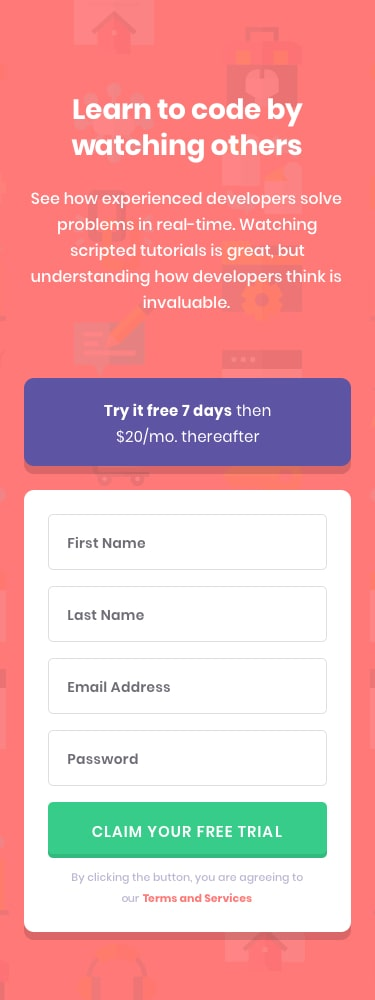
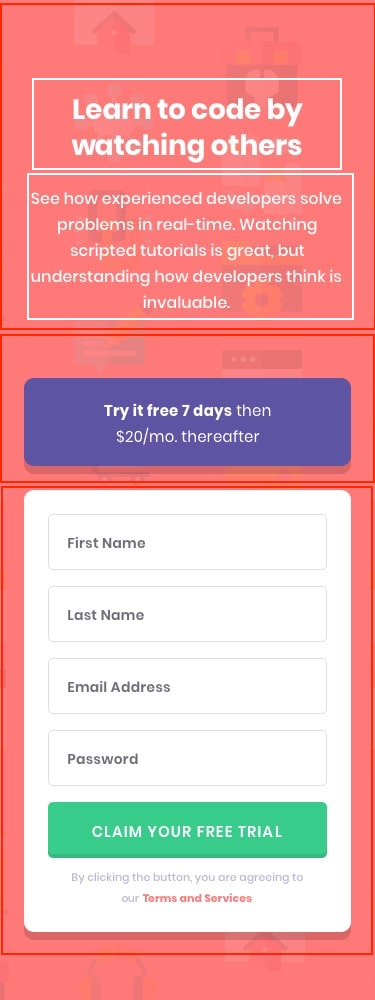
Added html structure

Changed region(s): [[0.0, 0.0, 1.0, 0.961], [0.88, 0.062, 0.9093, 0.093], [0.088, 0.062, 0.1173, 0.093]]

diff --git a/index.html b/index.html
@@ -9,35 +9,45 @@
   
   <title>Frontend Mentor | Intro component with sign up form</title>
 
-  <!-- Feel free to remove these styles or customise in your own stylesheet 👍 -->
-  <style>
-    .attribution { font-size: 11px; text-align: center; }
-    .attribution a { color: hsl(228, 45%, 44%); }
-  </style>
+  <!-- Author styles -->
+  <link rel="stylesheet" href="styles/component.css">
+
 </head>
 <body>
-
-  Learn to code by watching others
-
-  See how experienced developers solve problems in real-time. Watching scripted tutorials is great, 
-  but understanding how developers think is invaluable. 
-
-  Try it free 7 days then $20/mo. thereafter
-
-  First Name 
-  Last Name 
-  Email Address
-  Password
-
-  Claim your free trial 
-
-  By clicking the button, you are agreeing to our Terms and Services
-  
+  <div class="container">
+    <div class="introduction">
+      <h1>Learn to code by watching others</h1>
+      <p>See how experienced developers solve problems in real-time. Watching scripted tutorials is great,
+        but understanding how developers think is invaluable. <p>
+    </div>
+    <div class="sign-up">
+      <div class="cta">
+        <span>Try it free 7 days then $20/mo. thereafter</span>
+      </div><!-- .cta -->
+      <div class="form">
+        <form action="" id="form__signup">
+          <input type="text" placeholder="First Name" id="ftname" name="firstname" class="fn-input" required>
+          <input type="text" placeholder="Last Name" id="ltname" name="lastname" class="ln-input" required>
+          <input type="email" placeholder="Email Address" id="email-address" class="em-input" required>
+          <input type="password" placeholder="Password" id="password" class="pw-input" required>
+        </form>
+      </div><!-- .form -->
+      <div class="btn-container">
+        <input class="button" type="submit" value="Claim your free trial">
+      </div><!-- .btn-container -->
+      <div class="terms">
+        <span>By clicking the button, you are agreeing to our <a href="#">Terms and Services</a></span>
+      </div>
+    </div><!-- .signup -->
+  </div><!-- .container -->
+ 
   <footer>
     <p class="attribution">
       Challenge by <a href="https://www.frontendmentor.io?ref=challenge" target="_blank">Frontend Mentor</a>. 
       Coded by <a href="#">Your Name Here</a>.
     </p>
   </footer>
+
+
 </body>
 </html>

diff --git a/styles/component.css b/styles/component.css
@@ -1,0 +1,40 @@
+@import url('https://fonts.googleapis.com/css2?family=Poppins:wght@400;500;600;700&display=swap');
+
+* {
+    box-sizing: border-box;
+    margin: 0;
+    padding: 0;
+    outline: 1px solid black;
+}
+
+body {
+    height: 100vh;
+    width: 100%;
+    font-family: 'Poppins',
+    sans-serif;
+    display: flex;
+    flex-direction: column;
+    background-image: url(/images/bg-intro-mobile.png);
+    background-position: cover;
+    background-color: hsl(0, 100%, 74%);
+
+}
+
+.container {
+    display: flex;
+    flex-direction: column;
+}
+
+
+
+
+/* Attribution Style */
+
+.attribution {
+    font-size: 11px;
+    text-align: center;
+}
+
+.attribution a {
+    color: hsl(228, 45%, 44%);
+}

diff --git a/README.md b/README.md
@@ -1,2 +1,21 @@
 # Intro-Component-w-Sign-Up-Form-TLP
 Frontend Mentor Project
+
+
+
+
+
+
+## My Challenge
+
+Your challenge is to build out this introductory component and get it looking as close to the design as possible.
+
+You can use any tools you like to help you complete the challenge. So if you've got something you'd like to practice, feel free to give it a go.
+
+Your users should be able to:
+
+- View the optimal layout for the site depending on their device's screen size
+- See hover states for all interactive elements on the page
+- Receive an error message when the `form` is submitted if:
+  - Any `input` field is empty. The message for this error should say *"[Field Name] cannot be empty"*
+  - The email address is not formatted correctly (i.e. a correct email address should have this structure: `name@host.tld`). The message for this error should say *"Looks like this is not an email"*

diff --git a/style-guide.md b/style-guide.md
@@ -33,3 +33,5 @@ The designs were created to the following widths:
 
 - Family: [Poppins](https://fonts.google.com/specimen/Poppins)
 - Weights: 400, 500, 600, 700
+
+font-family: 'Poppins', sans-serif;
